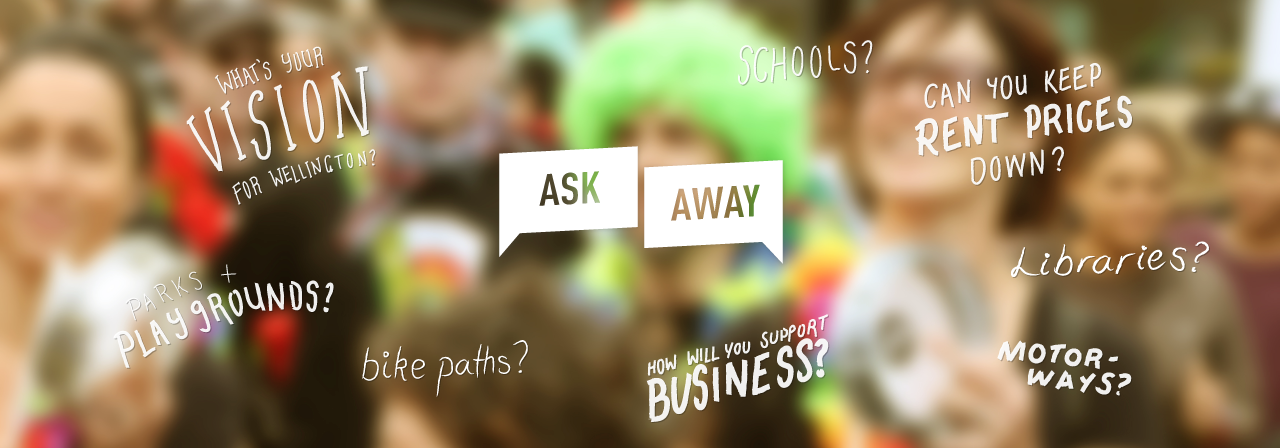
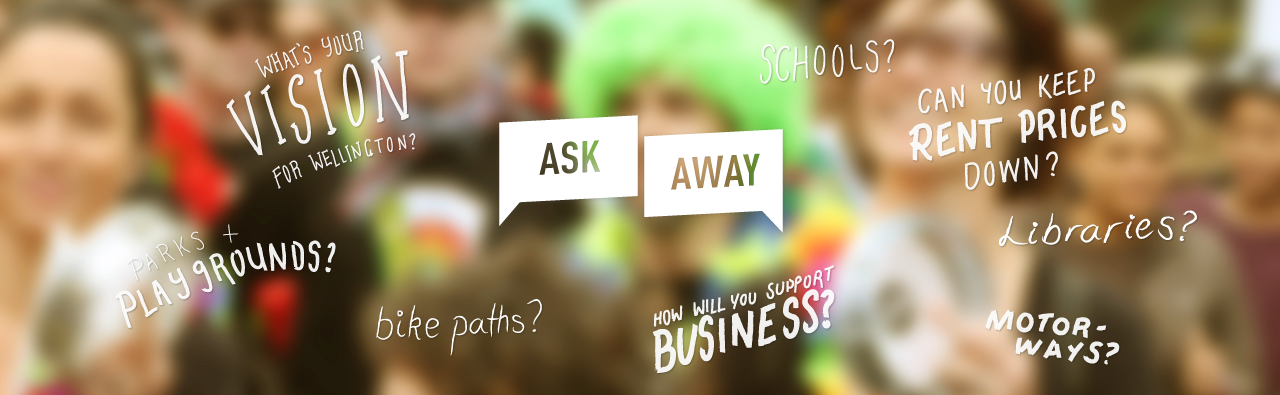
more decorative elements added and facebook like implemented

diff --git a/app/assets/stylesheets/bootstrap_and_overrides.css b/app/assets/stylesheets/bootstrap_and_overrides.css
@@ -69,19 +69,19 @@ footer img {
 }
 
 .palesalmon {
-  background-color: rgba(255, 99, 71, 0.1);
+  background-color: rgb(255, 224, 218);
 }
 
 .colorswatches .palesalmon:hover {
   background-color: rgba(255, 99, 71, 0.4);
 }
 .green {
-  color: #FFF;
+
   background-color:rgb(182, 179, 40);
 }
 
 .palegreen {
-  background-color: rgba(182, 179, 40, 0.2);
+  background-color: rgb(240, 240, 212);
 }
 
 .colorswatches .palegreen:hover {
@@ -92,7 +92,7 @@ footer img {
   background-color: rgb(38, 178, 170);
 }
 .paleteal {
-  background-color: rgba(38, 178, 170, 0.2);
+  background-color: rgb(212, 240, 238);
 }
 
 .colorswatches .paleteal:hover {
@@ -105,7 +105,7 @@ footer img {
 }
 
 .palepurple {
-  background-color:rgba(81, 71, 104, 0.2);
+  background-color:rgb(220, 218, 225);
 }
 
 .colorswatches .palepurple:hover {
@@ -204,32 +204,8 @@ p {
   -webkit-font-smoothing: antialiased;
 }
 
-/*-----------LANDING PAGE-----------*/
 
-#banner {
-  background-image: url('banner.jpg');
-  background-size: cover;
-  height: 300px;
-  display: block;
-}
 
-#logo {
-  display: block;
-  margin: auto;
-  padding-top: 4%;
-}
-
-#home {
-  text-align: center;
-  padding-bottom: 50px;
-  border-bottom: 1px solid #e1e1e8;
-}
-
-#header-img {
-  height: 40px;
-  width: 100%;
-  background-size: cover;
-}
 
 /*-----------SPEECHBUBBLES-----------*/
 
@@ -420,7 +396,7 @@ display: inline;
 }
 
 .accordion-toggle:hover {
-  background-color: #EEE;
+  background-color: rgb(249, 249, 249);
   text-decoration: none;
   color: rgb(255, 99, 71);
 }
@@ -429,12 +405,8 @@ display: inline;
   background-color: rgba(255, 99, 71, 0.1);
 }
 
-.all-questions .bubble-left {
-  background-color: ;
-}
-.all-questions .bubble-left:after {
-  border-color: ;
-}
+
+
 
 
 
@@ -477,7 +449,89 @@ display: inline;
 }
 
 
+/*----Styling for individual question-----*/
+
+.box {
+    padding: 8px 15px;
+    background-color: #FFF;
+      border: 1px solid #e1e1e8;
+    -webkit-border-radius: 6px;
+    -moz-border-radius: 6px;
+    margin-bottom: 20px;
+}
+
+
+.individual-q p {
+
+  font-size: 17.5px;
+  line-height: 22px;
+  color: rgb(255, 99, 71);
+}
+.individual-q .muted {
+color: #999999;
+font-size: 13px;
+line-height: 16px;
+margin-top: 5px;
+}
+
+.individual-q .btn {
+  padding: 8px 15px;
+}
+
+/*-----------HOME-----------*/
+
+#banner {
+  background-image: url('type-banner.png');
+  background-size: cover;
+  background-repeat: no-repeat;
+  display: block;
+  height: 395px;
+}
+
+
+#home-bg {
+  background-color: rgb(249, 249, 249);
+  text-align: center;
+  padding-bottom: 60px;
+}
+
+#home {
+  padding-top: 30px;
+}
+
+#how-it-works {
+  border: 1px solid #e1e1e8;
+}
+
+#img-q {
+  margin-left: 40%;
+  background-image: url('question.png');
+  background-size: contain;
+  background-repeat: no-repeat;
+  height: 100px;
+}
+
+#img-qmany {
+    margin-left: 25%;
+  background-image: url('many-questions.png');
+  background-size: contain;
+  background-repeat: no-repeat;
+  height: 100px;
+}
+
+#img-a {
+  margin-left: 40%;
+  background-image: url('answer.png');
+  background-size: contain;
+  background-repeat: no-repeat;
+  height: 100px;
+  vertical-align: middle;
+}
 /*-----------QUESTION OF THE DAY-----------*/
+
+#QOTD-bg {
+  background-image: url("texture-teal-50.png");
+}
 
 #QOTD .row {
   margin-left: 40px;
@@ -488,6 +542,9 @@ display: inline;
 }
 
 /*-----------ALL QUESTIONS-----------*/
+#all-questions-bg {
+  background-image: url("texture-salmon-50.png");
+}
 
 .all-questions {
 background-color: #FFF;
@@ -502,7 +559,31 @@ background-color: #FFF;
   padding: 15px;
 }
 
+.pointer {
+  display: inline-block;
+  background-image: url('pointer.png');
+  background-size: cover;
+  background-repeat: no-repeat;
+  height: 20px;
+}
+
+.pointer a {
+  margin-left: 40px;
+  color: #000;
+  padding: 3%;
+  color: rgb(255, 99, 71);
+  text-decoration: none;
+}
+
 /*-----------ABOUT-----------*/
+#about-bg {
+ background-image: url("texture-purple-50.png"); 
+}
+
+#about {
+  background-color: rgb(220, 218, 225);
+  padding-bottom: 20px;
+}
 
 #about-bg .inline-message {
   margin-top: 4em;
